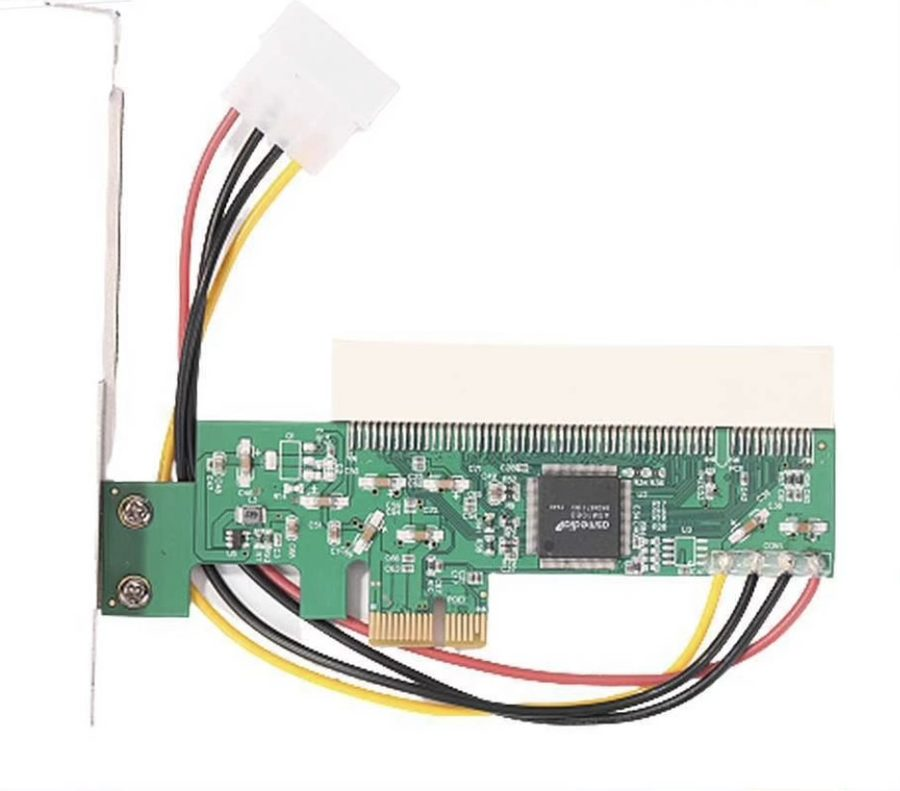
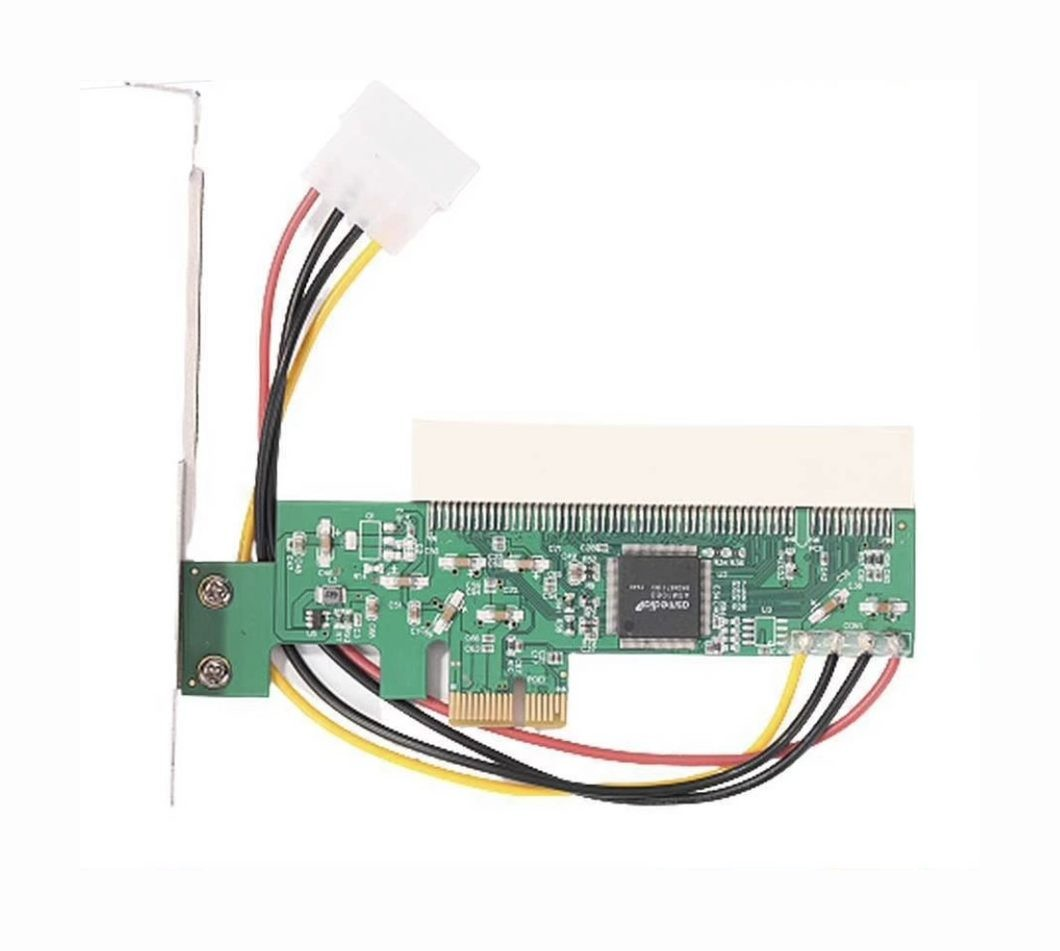
PCI sound card post 1: then-and-now diagram, new summary, adapter margin
- New diagram after the four-problems list. On the left, an ISA card wired
  straight to the game (ports, IRQ line, DMA wire). On the right, a PCI card
  in a PCIe-to-PCI adapter, with the four connections as numbered open
  questions that match the list. It shows only what the post says, with no
  findings ahead of the story.
- The summary now matches the new "I have a mission" opening.
- The PCIe-to-PCI adapter photo has an 80px near-white margin, so it no
  longer runs to the frame edge. The Voodoo 2 post shares the image and gets
  the margin too.

The build is clean.

Claude-Session: https://claude.ai/code/session_01K83egQzHXAHCq8eFv1vwm5

Changed region(s): [[0.0933, 0.0303, 0.9333, 0.9406], [0.0622, 0.0, 0.1244, 0.0303]]

diff --git a/_posts/2026-10-26-why-pci-sound-cards-dont-work-in-dos-on-modern-pcs.md b/_posts/2026-10-26-why-pci-sound-cards-dont-work-in-dos-on-modern-pcs.md
@@ -2,7 +2,7 @@
 layout: post
 title: "Why Don't PCI Sound Cards Work on a Modern PC?"
 date: '2026-10-26 23:00:00'
-summary: "What's the fastest PC that can still run a real 1990s sound card in DOS? Here's why sound is so hard, and what it takes to get a late-90s PCI card working in a modern machine."
+summary: "I have a mission: play original DOS games at super high resolutions and frame rates. Graphics turned out to be easy. But sound is the real challenge. Here's why a late-90s PCI sound card won't just work in a modern PC."
 tags: [MS-DOS, PC, Posts, Retrocomputing, Sound Cards]
 hero: isa-and-pci-sound-cards.jpg
 hero_alt: "An ISA sound card and a PCI Sound Blaster Live! 5.1, side by side"
@@ -61,6 +61,9 @@ The way I've come to think about it, we have four separate problems, and a card 
 2. **Getting there at all.** On a modern PC, the CPU's reads and writes to those addresses have to cross the chipset and a PCIe-to-PCI bridge to reach the card.
 3. **Interrupts.** The card's interrupt has to reach the game, on the line the game expects.
 4. **DMA.** The game programs a DMA controller to move its samples, and the card isn't connected to it.
+
+![Then: a DOS game wired straight to an ISA sound card through its ports, its IRQ line and a DMA wire. Now: the same game and a PCI card in a PCIe-to-PCI adapter, with each of the four connections an open question.](/img/isa-then-pci-now-diagram.svg)
+*On ISA, everything was wired straight to the card. In a modern PC, each connection is an open question.*
 
 If we can solve all four, we should have working sound.
 
